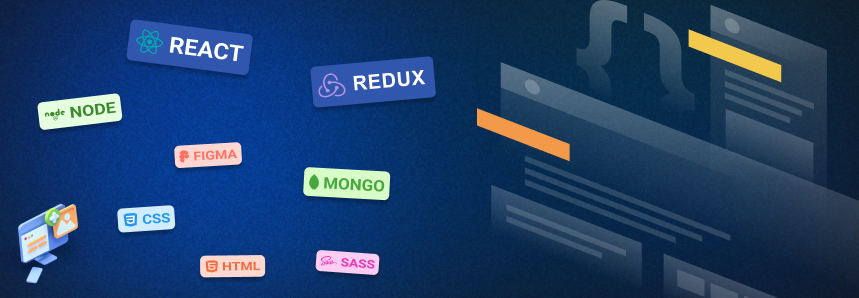
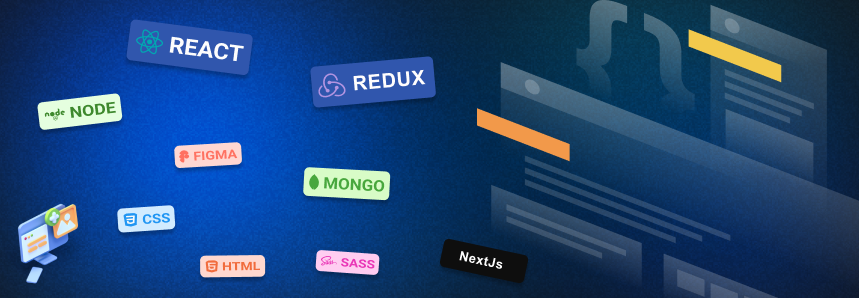
update Readme

Changed region(s): [[0.0605, 0.0302, 0.3935, 0.9664], [0.5146, 0.7852, 0.6356, 0.9664], [0.8172, 0.4228, 0.8475, 0.4832]]

diff --git a/README.md b/README.md
@@ -1,5 +1,7 @@
 <div align='center' width ='100%'>
 
+<img src="./giphy.gif" height="250"/>
+
 ![cover](./banner.png)
 
 </div>
@@ -19,7 +21,8 @@
 <br/>
 <br/>
 <br/>
-[![Readme Card](https://github-readme-stats.vercel.app/api/pin/?username=redsquirrrel&repo=keyboard-event&theme=tokyonight)](https://github.com/RedSquirrrel/keyboard-event) &nbsp;&nbsp;&nbsp;
+[![Readme Card](https://github-readme-stats.vercel.app/api/pin/?username=redsquirrrel&repo=keyboard-event&theme=tokyonight)](https://github.com/RedSquirrrel/keyboard-event)&nbsp;&nbsp;&nbsp;
+[![Readme Card](https://github-readme-stats.vercel.app/api/pin/?username=redsquirrrel&repo=next-countries&theme=tokyonight)](https://github.com/RedSquirrrel/next-countries)
 
 </div>
 
